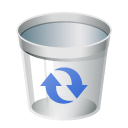
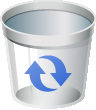
ゴミ箱の移動が出来るようにした
チャットボードを越えない範囲で移動できるようにした。
その際画像に余白があったためそれを削除しておいた。

diff --git a/public/javascripts/chat.js b/public/javascripts/chat.js
@@ -45,6 +45,7 @@ function loadTemplates() {
 function loadRoom() {
   var $topic = $('#topic');
   var $chatboard = $('#chatboard');
+  var $trashbox = $('.trashbox');
 
   $.get('/room', {roomId : ROOMID}, function(room) {
     $topic
@@ -59,12 +60,11 @@ function loadRoom() {
       'width'  : room.boardSize.width,
       'height' : room.boardSize.height
     });
-
     // まだ登録されてなかったら初期化しておく
     if(room.trashPos == null) {
-      room.trashPos = { x : 0, y : $chatboard.outerHeight() - 130 };
+      room.trashPos = { x : 0, y : $chatboard.outerHeight() - $trashbox.outerHeight() };
     }
-    $('.trashbox').css({
+    $trashbox.css({
       'left' : room.trashPos.x + $chatboard.position().left,
       'top'  : room.trashPos.y + $chatboard.position().top
     });
@@ -195,14 +195,27 @@ function setHandlers() {
       e.stopPropagation();
     });
 
+  // ゴミ箱の移動
+  var $moveTrashbox = null;
+  $('.trashbox').mousedown(function(e) {
+    $moveTrashbox = $(this);
+    pos.x = e.pageX - $(this).position().left;
+    pos.y = e.pageY - $(this).position().top;
+
+    $('body').addClass('noneselect');
+    e.stopPropagation();    // バブリングを防ぐ
+  });
+
   $(document)
     // マウスアップ時に移動対象を外す
     .mouseup(function(e) {
       $moveLabel = null;
+      $moveTrashbox = null;
       $('body').removeClass('noneselect');
     })
     // マウス移動時に移動対象があれば移動する
     .mousemove(function(e) {
+      // ラベルを動かすなら
       if($moveLabel !== null) {
         var move = {
           x : e.pageX - ($moveLabel.position().left + pos.x),
@@ -261,6 +274,30 @@ function setHandlers() {
         });
 
         e.stopPropagation();
+      }
+      // ゴミ箱を動かすなら
+      else if($moveTrashbox !== null) {
+        var newPos = { x : e.pageX - pos.x, y : e.pageY - pos.y };
+        var boardPos = $chatboard.position();
+
+        // チャットボードの枠を越えないように調節する
+        if(newPos.x < boardPos.left) {
+          newPos.x = boardPos.left;
+        }
+        if(newPos.y < boardPos.top) {
+          newPos.y = boardPos.top;
+        }
+        if(newPos.x + $moveTrashbox.outerWidth() > boardPos.left + $chatboard.outerWidth()) {
+          newPos.x = boardPos.left + $chatboard.outerWidth() - $moveTrashbox.outerWidth();
+        }
+        if(newPos.y + $moveTrashbox.outerHeight() > boardPos.top + $chatboard.outerHeight()) {
+          newPos.y = boardPos.top + $chatboard.outerHeight() - $moveTrashbox.outerHeight();
+        }
+
+        $moveTrashbox.css({
+          'left' : newPos.x,
+          'top'  : newPos.y
+        });
       }
     });
 

diff --git a/app.js b/app.js
@@ -43,7 +43,7 @@ var roomSchema = new Schema({
   created   : { type: Date, default: Date.now },
   password  : String,
   boardSize : { type: Object, default: {width: 650, height: 550} },
-  trashPos  : { type: Object, default: {x: 0, y: 0} }
+  trashPos  : { type: Object, default: {x: 0, y: 440} }
 });
 mongoose.model('Room', roomSchema);
 

diff --git a/public/stylesheets/chat.css b/public/stylesheets/chat.css
@@ -86,8 +86,12 @@ body {
   display: none;
 }
 
-.trashbox {
+div.trashbox {
   position: absolute;
+  background-image: url('../images/trashbox.png');
+  width:  96px;
+  height: 110px;
+  cursor: default;
 }
 
 #chatboardmenu {
